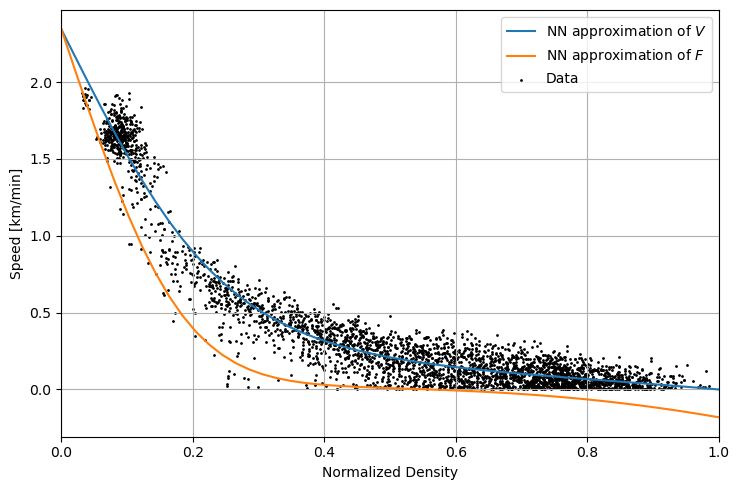
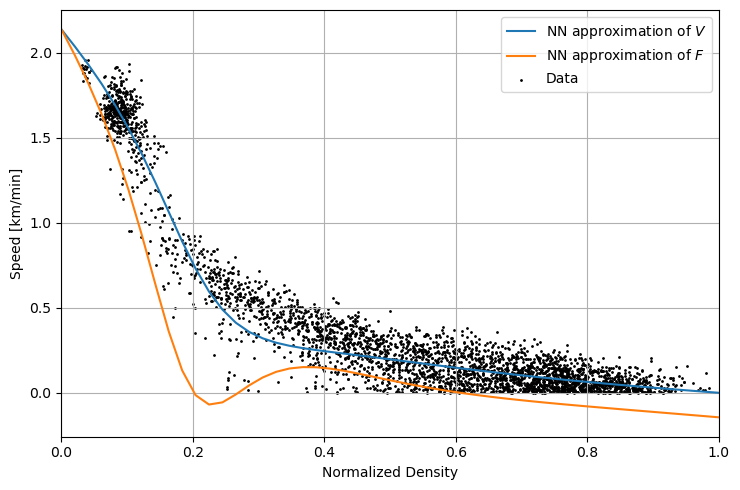
add trajectory training

diff --git a/neural_network_pytorch.py b/neural_network_pytorch.py
@@ -292,21 +292,24 @@ class NeuralNetwork(nn.Module):
 
         # breakpoint()
         # Predictions
-        u_pred = [self.net_u(self.t[i], self.x[i]) - self.noise_rho_bar[i] for i in range(len(self.t))] # list of tensors, since each tensor has a different shape
+        u_pred = [self.net_u(self.t[i], self.x[i]) - self.noise_rho_bar[i]*0 for i in range(len(self.t))] # list of tensors, since each tensor has a different shape
+        x_pred = [self.net_x_pv(self.t[i], i) for i in range(len(self.t))]  
+        u_pred_pv_position = [self.net_u(self.t[i], x_pred[i]) - self.noise_rho_bar[i]*0 for i in range(len(self.t))]
         v_pred = [self.net_v(self.u[i]) for i in range(len(self.t))]
-        x_pred = [self.net_x_pv(self.t[i], i) for i in range(len(self.t))]  # data points or physics points?
-        # x_pred0 = self.net_x_pv(t[0], 0)
-        # x_pred = torch.stack([self.net_x_pv(t_g[i], i) for i in range(len(t_g))]) # data points or physics points?
 
         # Data Losses
+
+        # L_2
         MSEu1_list = [F.mse_loss(self.u[i], u_pred[i]) for i in range(len(self.u))] # L_2
         MSEu1 = torch.mean(torch.stack(MSEu1_list))  # MSE for Adjusted Density Predictions (rho_pred - rho_true - noise)^2
 
-        # # MSEu2_l
+        # L_4
+        MSEu2_list = [F.mse_loss(self.u[i], u_pred_pv_position[i]) for i in range(len(self.u))] # L_4
+        MSEu2 = torch.mean(torch.stack(MSEu2_list))  
+
+        # MSEu2_l
         MSEtrajectories_list = [F.mse_loss(self.x[i], x_pred[i]) for i in range(len(self.x))]
         MSEtrajectories = torch.mean(torch.stack(MSEtrajectories_list))  # MSE for Trajectories Predictions (x_pred - x_true)^2
-        # MSEtrajectories0 = F.mse_loss(x[0].squeeze(0), x_pred0.squeeze(0))  # MSE for Trajectories Predictions (x_pred - x_true)^2
-
 
         MSEv1_list = [F.mse_loss(self.v[i], v_pred[i]) for i in range(len(self.v))] # L_3
         MSEv1 = torch.mean(torch.stack(MSEv1_list))  # MSE for Adjusted Density Predictions (rho_pred - rho_true - noise)^2
@@ -316,8 +319,8 @@ class NeuralNetwork(nn.Module):
 
         return {
             "MSEu1": MSEu1,
+            "MSEu2": MSEu2,
             "MSEtrajectories": MSEtrajectories,
-            # "MSEtrajectories": MSEtrajectories0,
             "MSEv1": MSEv1,
             "MSEv2": MSEv2
         }
@@ -325,17 +328,17 @@ class NeuralNetwork(nn.Module):
 
     def calculate_physics_losses(self):
         f_pred = self.net_f(self.t_f, self.x_f)
-        # g_pred = self.net_g(self.t_g)
+        g_pred = self.net_g(self.t_g)
         MSEf = torch.mean(f_pred**2)  # Residual of PDE Predictions flux function
-        # MSEg = torch.mean(g_pred**2)  # Residual of PDE Predictions g function
+        MSEg = torch.mean(torch.stack(g_pred)**2) # Residual of PDE Predictions g function
         MSEv = torch.mean(torch.relu(self.net_ddf(self.u_v))**2)  # Placeholder, adjust as needed
         MSEgamma = self.gamma_var**2
 
         return {
             # "MSEf": MSEf,
-            # "MSEg": MSEg,
+            "MSEg": MSEg,
             "MSEv": MSEv,
-            # "MSEgamma": MSEgamma
+            "MSEgamma": MSEgamma
         }
 
         
@@ -374,7 +377,7 @@ class NeuralNetwork(nn.Module):
         # optimizer = optim.LBFGS(self.parameters(), lr=0.005)
        
         # Train the model
-        self.N_epochs = 400
+        self.N_epochs = 4000
         # self.plot_density_loss_on_trajectory()
         with tqdm(total=self.N_epochs, desc="Training Progress") as pbar:
             for epoch in range(self.N_epochs):
@@ -489,19 +492,41 @@ class NeuralNetwork(nn.Module):
         output = [self.net_x_pv(t[i], i) for i in range(self.N)]
         return output
     
+    # def net_g(self, t):
+    #     '''
+    #     return the physics function g for all agents at time t
+    #     N_y[y_i] := x_t - v(rho(t, x(t)))
+    #     '''
+    #     x_trajectories = self.net_x(t)
+
+    #     g = []
+    #     for i in range(len(x_trajectories)):
+    #         grad_outputs = torch.ones_like(x_trajectories[i])
+    #         x_dt = torch.autograd.grad(x_trajectories[i], t[i], grad_outputs=grad_outputs, create_graph=True)[0]
+    #         rho = self.net_u(t[i], x_trajectories[i])
+    #         g.append(x_dt - self.net_v(rho))
+    #     return g
+    
+
     def net_g(self, t):
         '''
         return the physics function g for all agents at time t
         N_y[y_i] := x_t - v(rho(t, x(t)))
         '''
-        x_trajectories = self.net_x(t)
 
         g = []
-        for i in range(len(x_trajectories)):
-            grad_outputs = torch.ones_like(x_trajectories[i])
-            x_dt = torch.autograd.grad(x_trajectories[i], t[i], grad_outputs=grad_outputs, create_graph=True)[0]
-            rho = self.net_u(t[i], x_trajectories[i])
-            g.append(x_dt - self.net_v(rho))
+
+        for i in range(len(t)):
+
+            x_trajectories = self.net_x_pv(t[i], i)# - self.noise_rho_bar[i] # TODO: is the noise needed?
+
+            x_dt = torch.autograd.grad(x_trajectories, t, grad_outputs=torch.ones_like(x_trajectories), create_graph=True)[0] # have to use the whole t and then select the i-th element
+            # print(x_dt[i])
+            rho = self.net_u(t[i], x_trajectories)
+            # breakpoint()
+            g.append(x_dt[i] - self.net_v(rho))
+
+        # breakpoint()
         return g
     
     def predict_speed(self, u):

diff --git a/main_sumo.py b/main_sumo.py
@@ -78,7 +78,7 @@ axisPlot = sumo.getAxisPlot()
 Vf = np.amax(v_train[14]) # find the highest speed in the training data\
 
 trained_neural_network = rn.ReconstructionNeuralNetwork(t_train, x_train, rho_train, v_train,
-                                                    L, Tmax, N_f=500, N_g=50, opt=9, v_max=Vf)
+                                                    L, Tmax, N_f=50, N_g=50, opt=9, v_max=Vf)
 
 loss_history, gamma_var_history, noise_rho_bar_history = trained_neural_network.train()
 plot_losses(loss_history)
